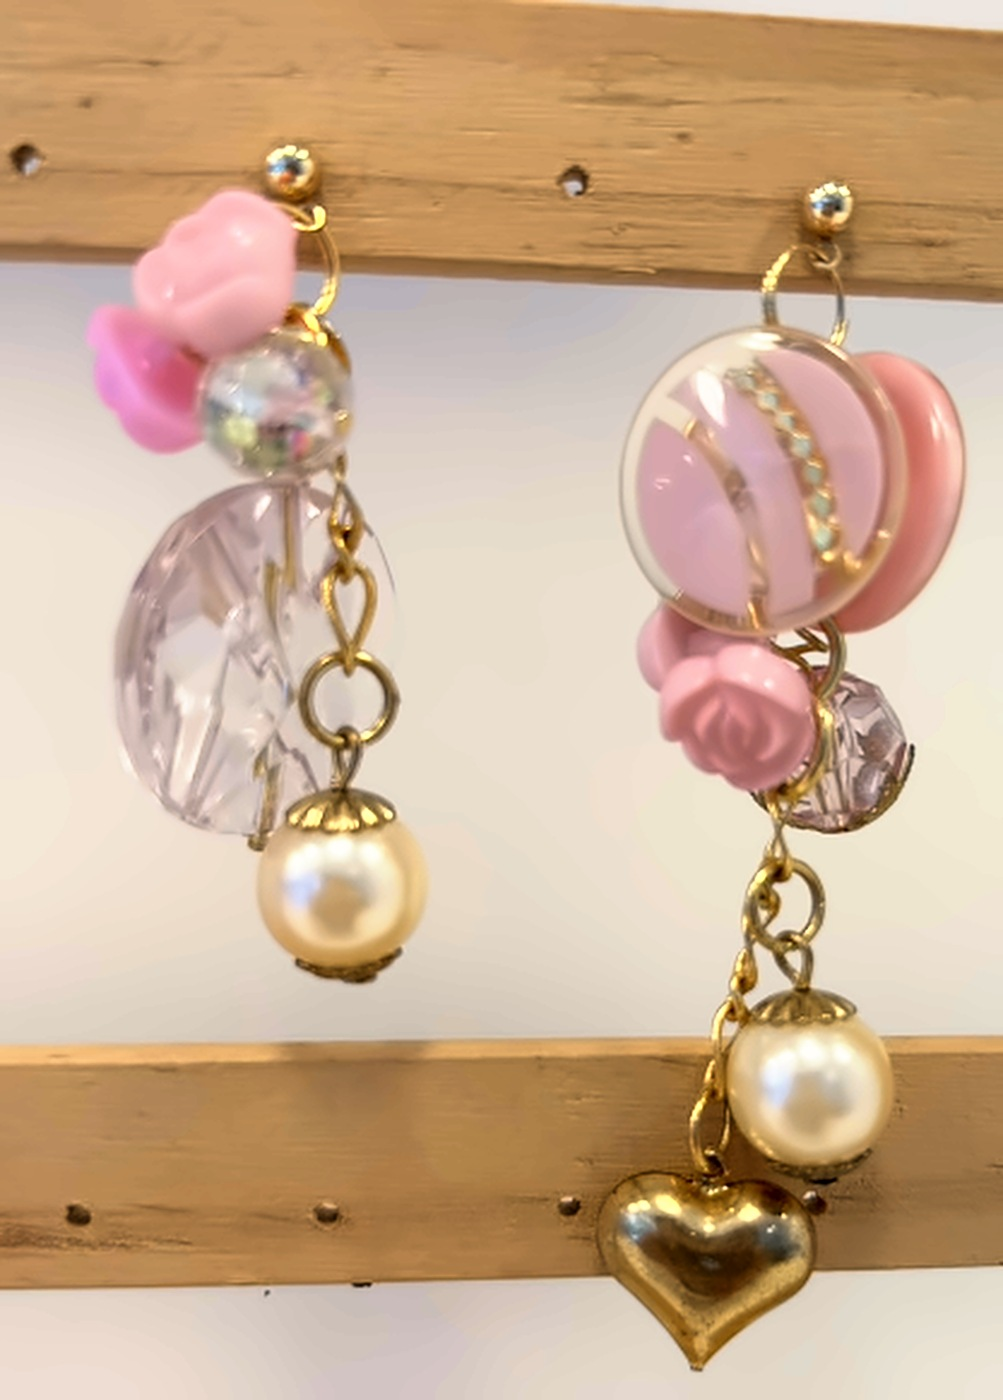
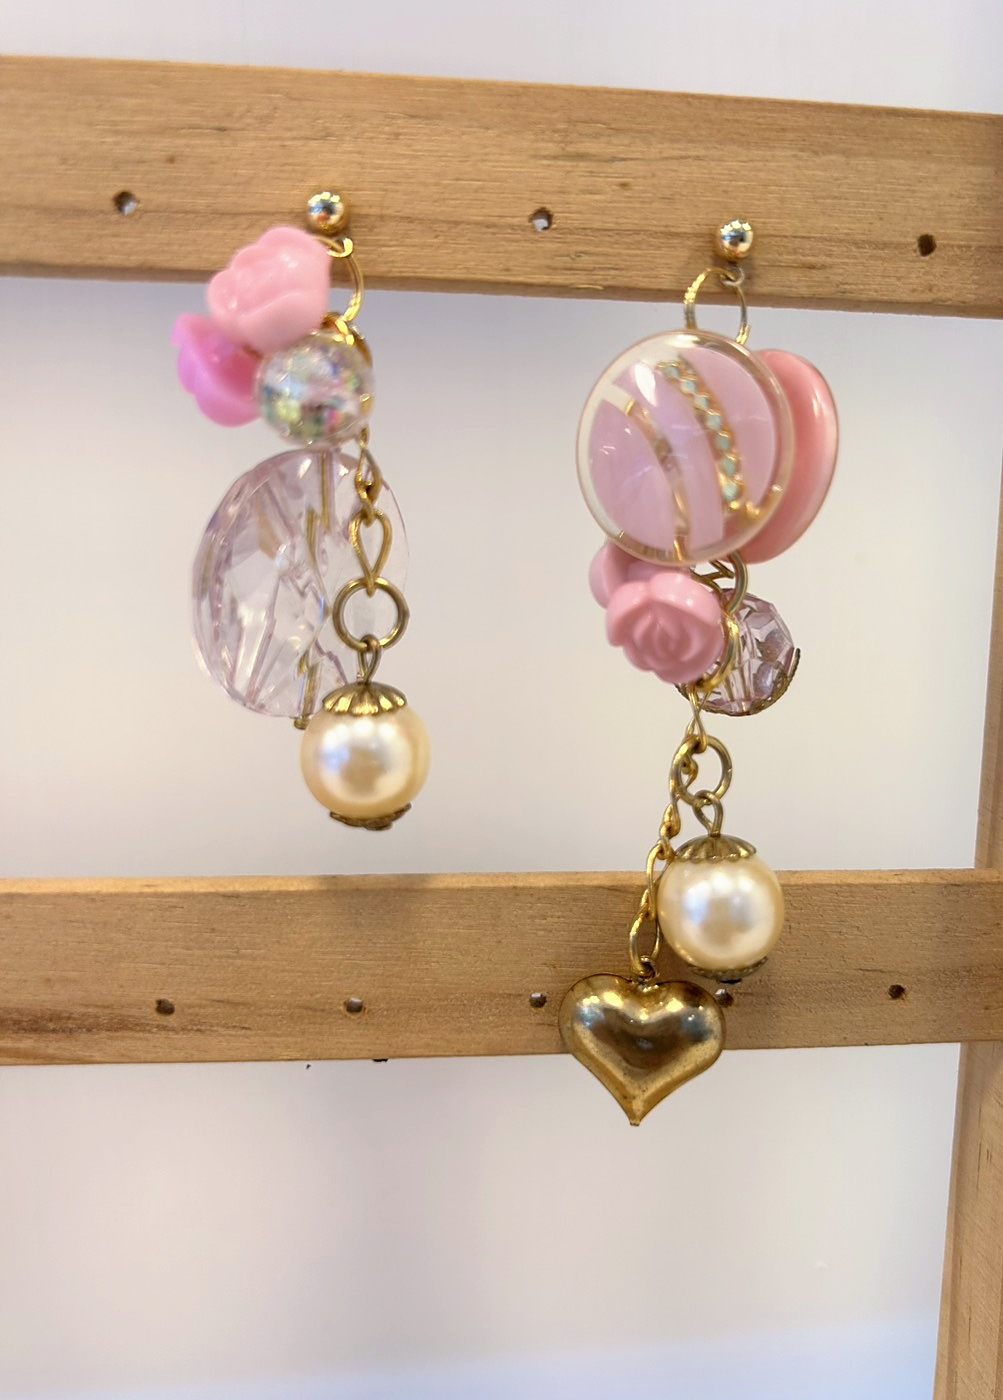
L版：粉玫瑰耳環改用高解析原圖，不再放大，畫面清晰

diff --git a/index.html b/index.html
@@ -474,7 +474,7 @@ const ACCESSORIES = [
     media: "手作項鍊 · Handmade necklace", style: "彩晶珍珠",
     desc: "一顆珍珠、一顆切面彩晶交錯串起，中間用金色米粒珠隔開，紅、橙、黃、綠、藍、紫像一串彩色糖果。顏色繽紛卻不俗氣，搭白T或素色洋裝就很亮眼。",
     details: ["切面彩晶", "白珍珠", "金色米粒珠", "螺旋扣頭"] },
-  { no: "04", file: "works/acc-04.jpg?v=20261116a", title: "粉玫瑰珍珠不對稱耳環", en: "Pink Rose Asymmetry",
+  { no: "04", file: "works/acc-04.jpg?v=20261116b", title: "粉玫瑰珍珠不對稱耳環", en: "Pink Rose Asymmetry",
     media: "手作耳環 · Handmade earrings", style: "粉嫩甜美",
     desc: "左右兩邊刻意做成不一樣：一邊是粉色玫瑰、閃粉玻璃珠配淡紫切面水晶，另一邊是粉色圓釦、小玫瑰和金色愛心。兩邊都垂一顆珍珠，甜美又帶點玩心，搭洋裝或針織衫都可愛。",
     details: ["不對稱設計", "粉色玫瑰", "珍珠墜", "金色愛心"] }
